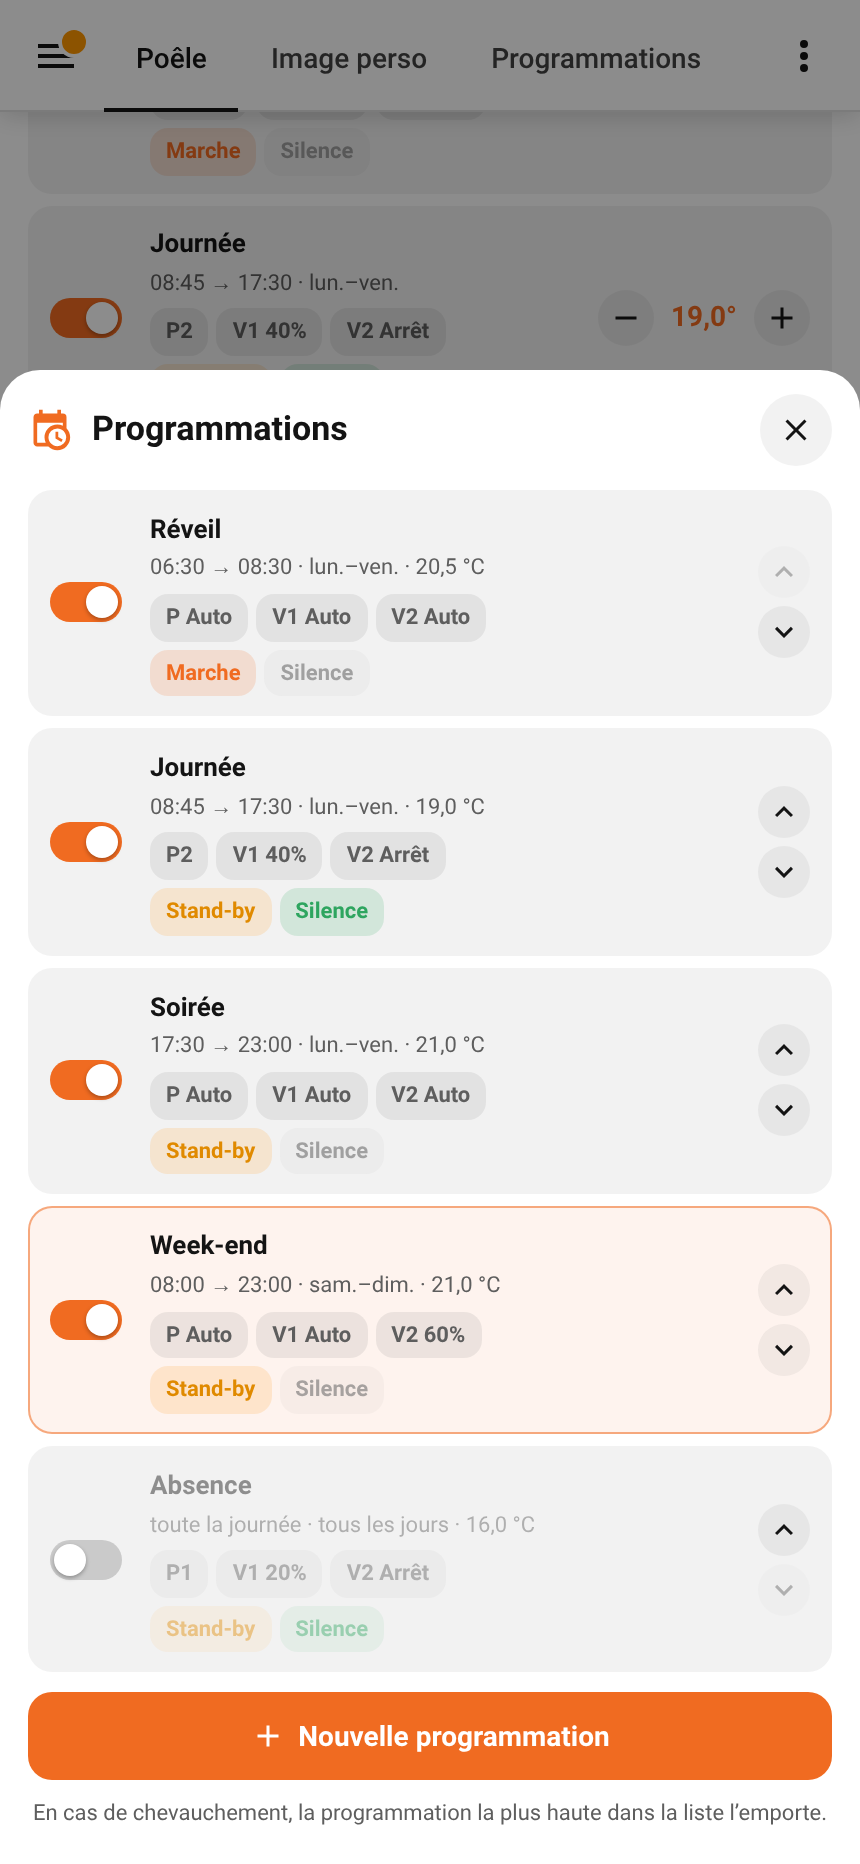
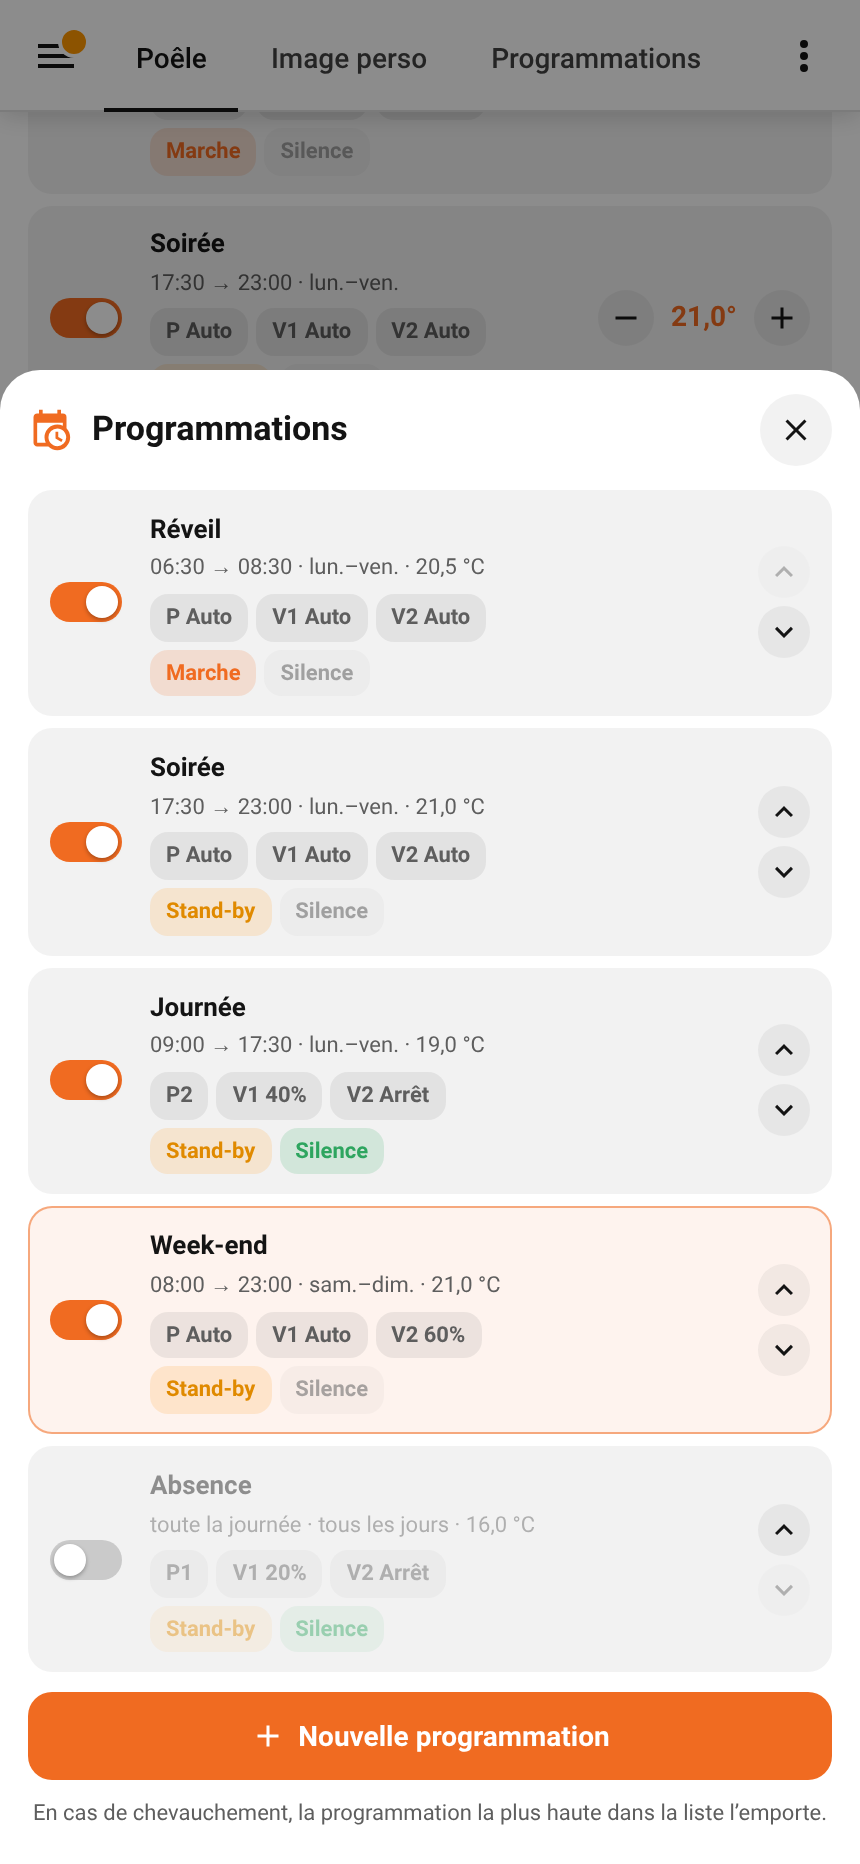
Add files via upload

diff --git a/custom_components/edilkamin_control/www/edilkamin-control-card.js b/custom_components/edilkamin_control/www/edilkamin-control-card.js
@@ -4,7 +4,7 @@
  * et la programmation de l'intégration Edilkamin Control.
  * Aucune dépendance (pas de button-card, card-mod, stack-in-card).
  */
-const ECC_VERSION = "2026.11.3";
+const ECC_VERSION = "2026.11.4";
 
 const ECC_I18N = {
   fr: {
@@ -151,13 +151,23 @@ class EdilkaminControlCard extends HTMLElement {
   set hass(hass) {
     this._hass = hass;
     // Registre des entités modifié (programmation ajoutée ou supprimée) : nouvelle résolution
-    if (!this._resolved || (hass.entities && hass.entities !== this._ents)) { this._ents = hass.entities; this._resolve(); }
+    // … ou ordre des programmations modifié (même entités, attribut « profile » renuméroté)
+    const ord = this._orderSig(hass);
+    if (!this._resolved || (hass.entities && hass.entities !== this._ents) || ord !== this._ord) {
+      this._ents = hass.entities; this._ord = ord; this._resolve();
+    }
     const sig = this._signature();
     if (sig !== this._sig) {
       this._sig = sig;
       this._render();
     }
     if (this._config.show_tracking && this._config.show_graph) this._loadHistory();
+  }
+
+  _orderSig(hass) {
+    const reg = hass.entities || {};
+    return Object.keys(reg).filter((e) => reg[e].platform === "edilkamin_control" && reg[e].translation_key === "profile_active")
+      .map((e) => e + ":" + (hass.states[e]?.attributes?.profile ?? "")).sort().join("|");
   }
 
   /* ------------------------------------------------------------ entités */

diff --git a/custom_components/edilkamin_control/controller.py b/custom_components/edilkamin_control/controller.py
@@ -334,7 +334,16 @@ class EdilkaminController:
         if hass.state is CoreState.running:
             hass.async_create_task(_started())
         else:
-            self._unsubs.append(hass.bus.async_listen_once(EVENT_HOMEASSISTANT_STARTED, _started))
+            # écoute unique : ne pas la retirer au déchargement si elle a déjà servi
+            fired = False
+
+            async def _once(event: Event) -> None:
+                nonlocal fired
+                fired = True
+                await _started(event)
+
+            unsub = hass.bus.async_listen_once(EVENT_HOMEASSISTANT_STARTED, _once)
+            self._unsubs.append(lambda: None if fired else unsub())
 
     async def async_stop(self) -> None:
         for u in self._unsubs:

diff --git a/custom_components/edilkamin_control/const.py b/custom_components/edilkamin_control/const.py
@@ -3,7 +3,7 @@
 from __future__ import annotations
 
 DOMAIN = "edilkamin_control"
-VERSION = "2026.11.3"
+VERSION = "2026.11.4"
 
 # Clés de configuration (entrée de configuration / options)
 CONF_CLIMATE = "climate"
